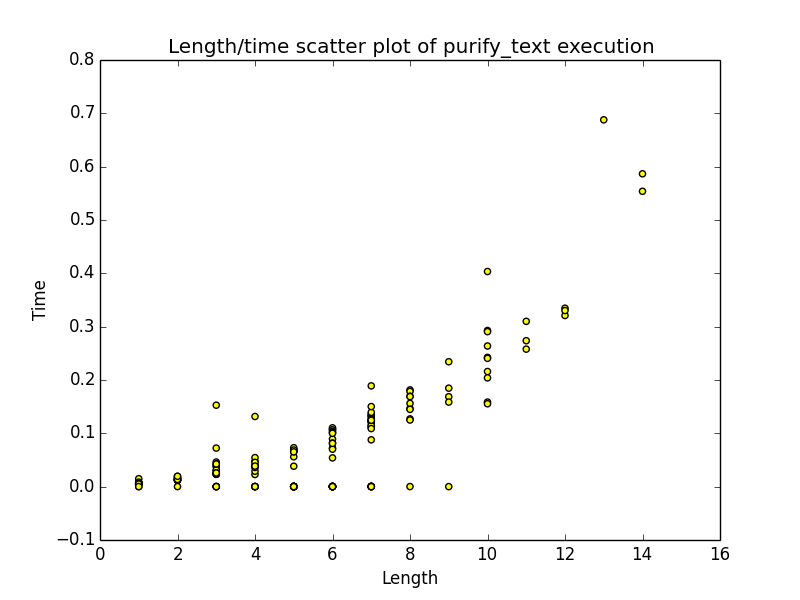
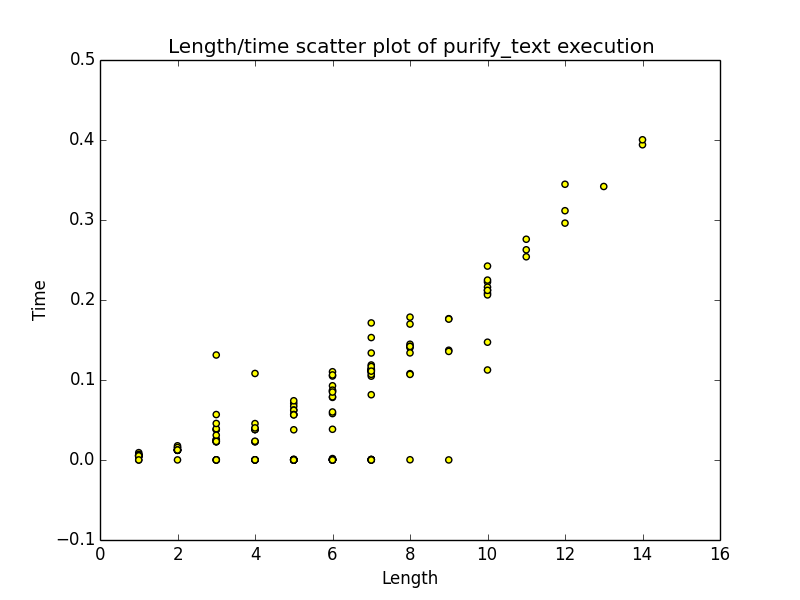
add new plots

diff --git a/src/test_purify_text.py b/src/test_purify_text.py
@@ -67,14 +67,22 @@ def heap_profiling():
     print hpy().heap()
 
 
-def plot():
+def plots():
+    plt.figure(0)
     plt.title("Length/time scatter plot of purify_text execution")
     plt.xlabel("Length")
     plt.ylabel("Time")
     for i in range(len(length_list)):
         plt.scatter(length_list[i], time_list[i], c='yellow')
     # plt.show()
-    plt.savefig("correlation.png")
+    plt.savefig("length_time_plot.png")
+
+    plt.figure(1)
+    plt.title("Length/number hist of purify_text execution")
+    plt.xlabel("Length")
+    plt.ylabel("Number")
+    plt.hist(length_list, bins=np.arange(0, 15 + 1, 1), color='green')
+    plt.savefig("length_number_plot.png")
 
 
 def average():
@@ -93,6 +101,6 @@ if __name__ == '__main__':
 
     heap_profiling()
 
-    plot()
+    plots()
 
     average()

diff --git a/README.md b/README.md
@@ -6,7 +6,8 @@
 * Тесты
 * Профиллирование работы
 
-![Граффик](src/correlation.png "Граффик")
+![Граффик](src/length_time_plot.png "Граффик")
+![Граффик](src/length_number_plot.png "Граффик")
 
 
 
